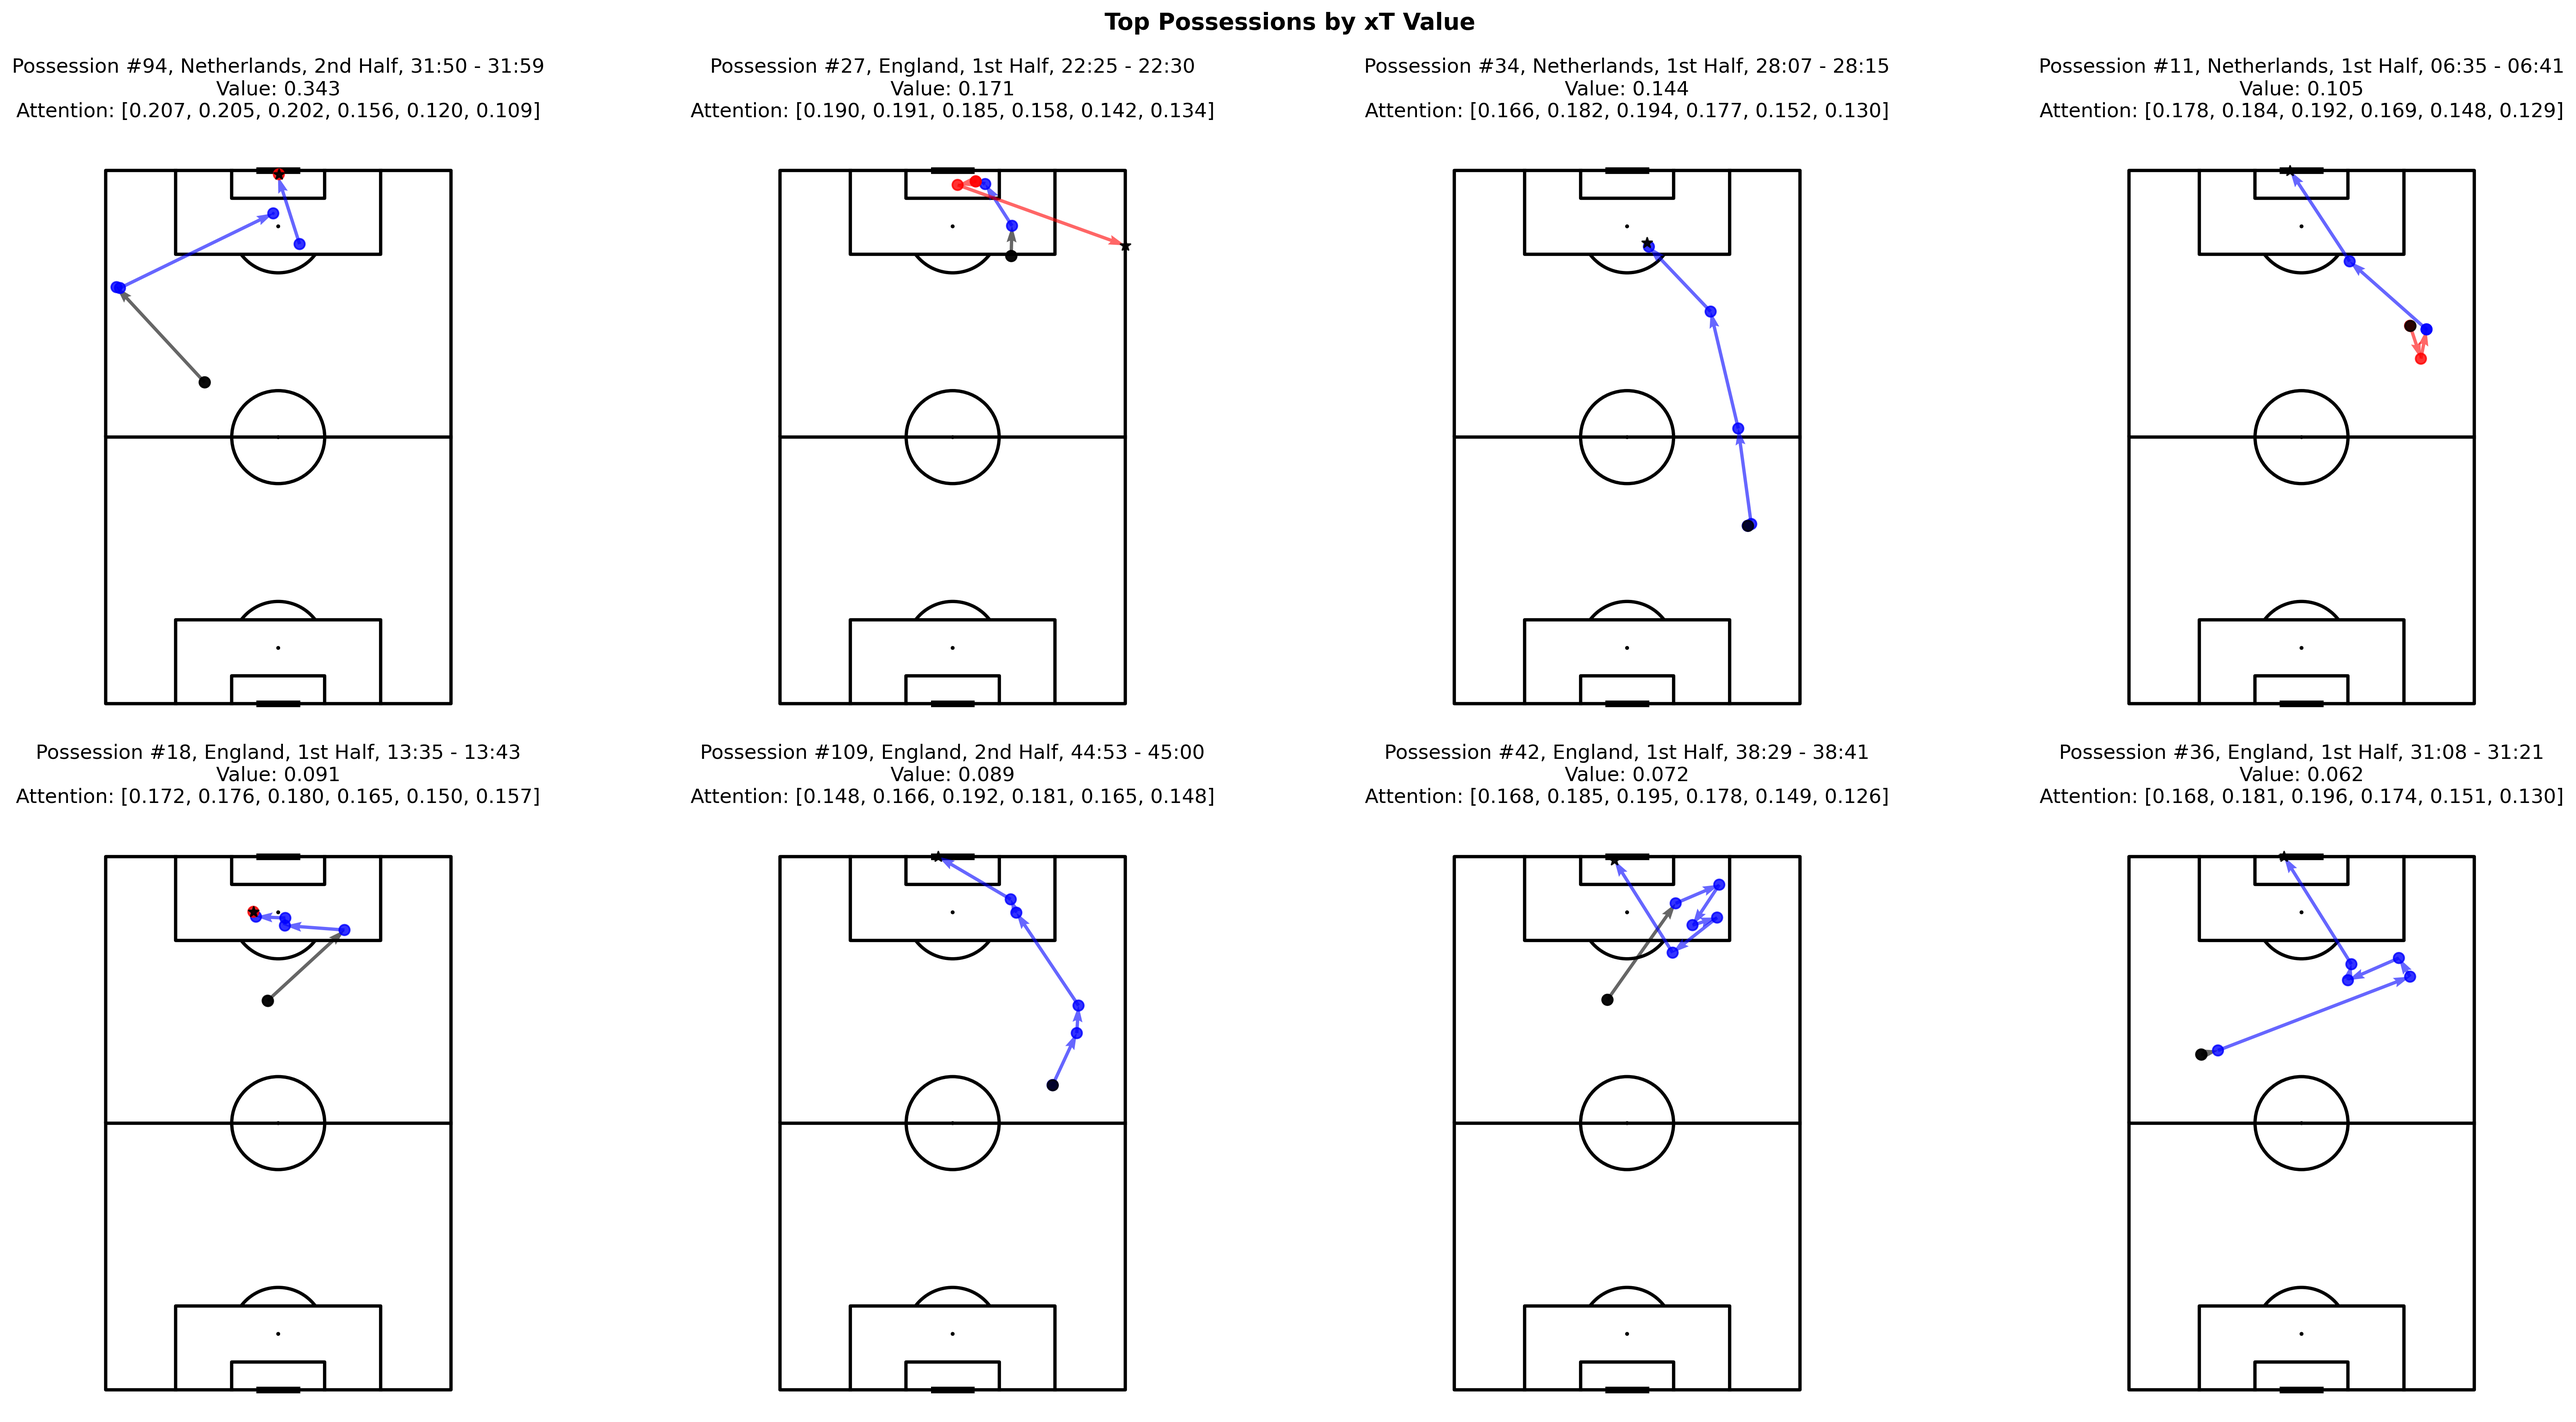
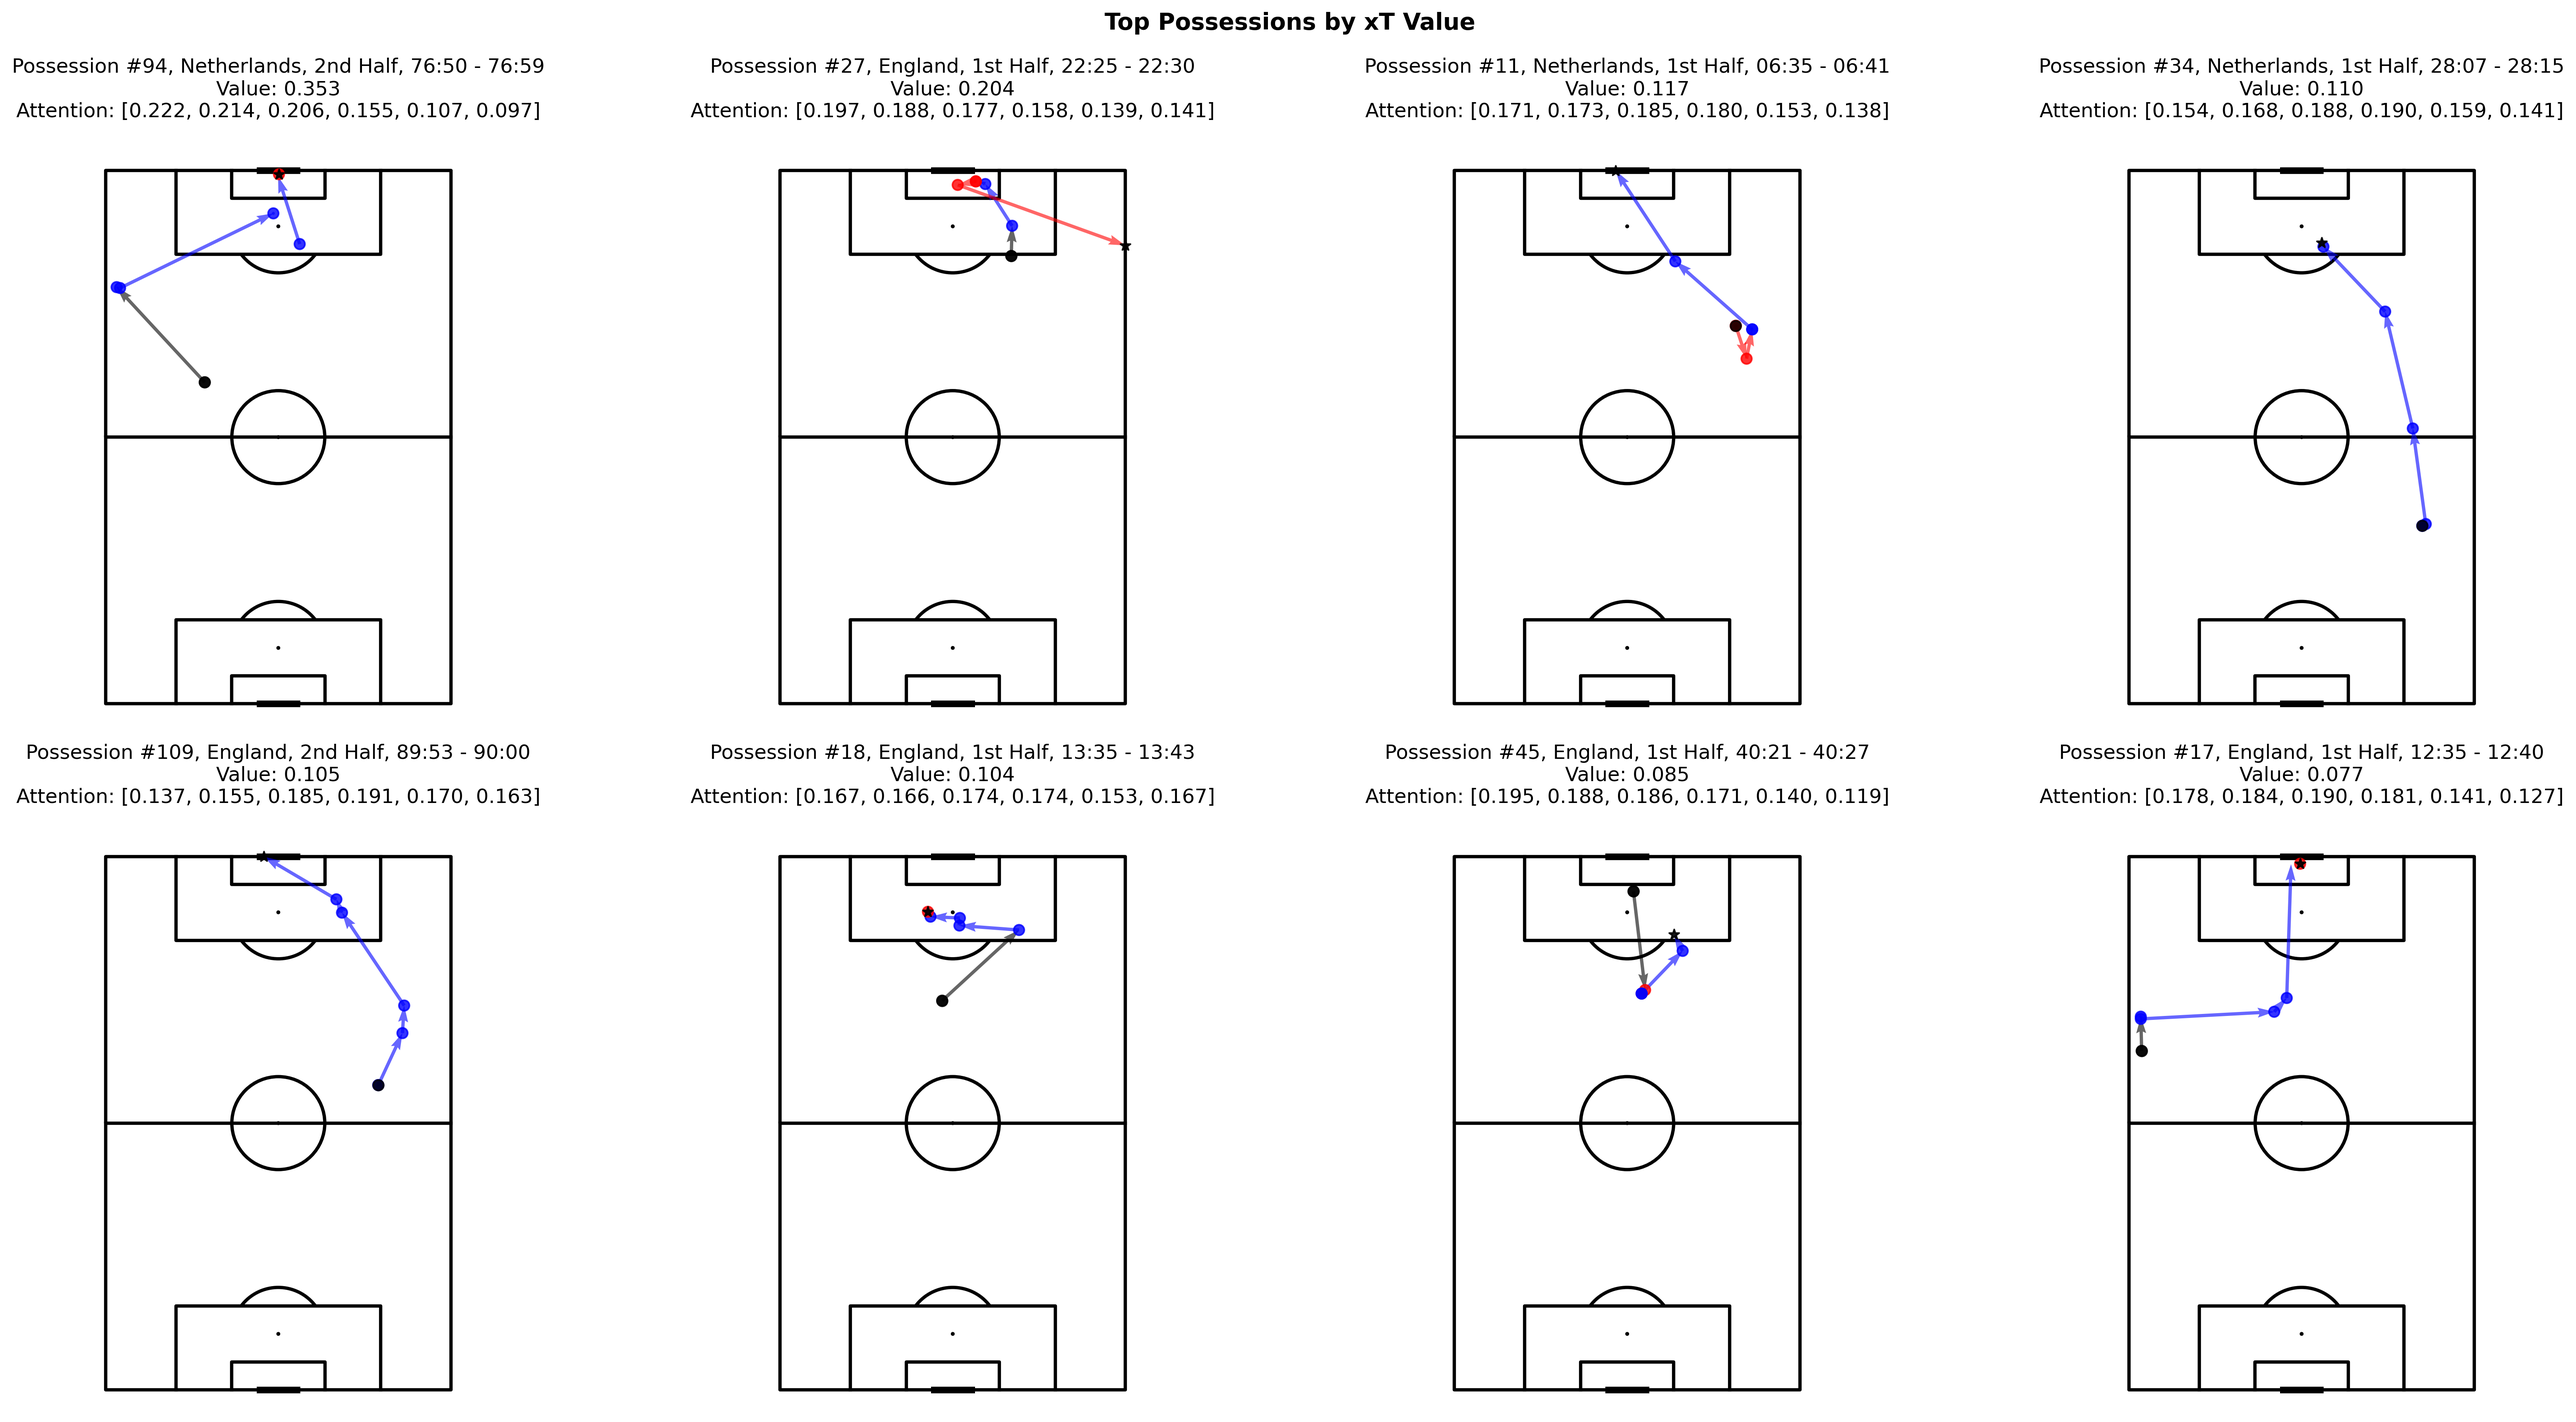
feat: enhance possession title formatting with period names and time offsets

diff --git a/src/analysis/visualization.py b/src/analysis/visualization.py
@@ -92,33 +92,32 @@ def plot_possession_actions(possession_actions: pd.DataFrame, title: Optional[st
 
 
 def _default_title(possession_actions: DataFrame) -> str:
-    possession_length = len(possession_actions)
-    possession_team_name = possession_actions.iloc[0]['possession_team_name']
     first_action = possession_actions.iloc[0]
     last_action = possession_actions.iloc[-1]
+    possession_length = len(possession_actions)
     period_id = first_action['period_id']
-    time_start_seconds = int(first_action['time_seconds'])
-    time_end_seconds = int(last_action['time_seconds'])
-    time_start_formatted = f"{time_start_seconds // 60:02d}:{time_start_seconds % 60:02d}"
-    time_end_formatted = f"{time_end_seconds // 60:02d}:{time_end_seconds % 60:02d}"
-    title = f"Possession #{first_action['possession']} - Team: {possession_team_name} - Actions: {possession_length} \n Half: {period_id} - Time: {time_start_formatted} - {time_end_formatted}"
-    return title
+
+    period_offsets = {1: 0, 2: 45, 3: 90, 4: 105, 5: 120}
+    offset = period_offsets.get(period_id, 0) * 60
+    time_start_seconds = int(first_action['time_seconds']) + offset
+    time_end_seconds = int(last_action['time_seconds']) + offset
+    formatted = f"{time_start_seconds // 60:02d}:{time_start_seconds % 60:02d}"
+    end_formatted = f"{time_end_seconds // 60:02d}:{time_end_seconds % 60:02d}"
+
+    period_names = {
+        1: "1st Half",
+        2: "2nd Half",
+        3: "Extra Time 1st Half",
+        4: "Extra Time 2nd Half",
+        5: "Penalty Shootout"
+    }
+    period_name = period_names.get(period_id, "Unknown")
+
+    return f"Possession #{first_action['possession']} ({possession_length}↔), {first_action['possession_team_name']}, {period_name}, {formatted} - {end_formatted}"
 
 
 def _title_with_value(possession_actions: DataFrame, predicted_value: float, attention_weights: np.ndarray = None) -> str:
-    first_action = possession_actions.iloc[0]
-    last_action = possession_actions.iloc[-1]
-
-    possession_number = first_action['possession']
-    team_name = first_action['possession_team_name']
-    period_id = first_action['period_id']
-    time_start_seconds = int(first_action['time_seconds'])
-    time_end_seconds = int(last_action['time_seconds'])
-    time_start_formatted = f"{time_start_seconds // 60:02d}:{time_start_seconds % 60:02d}"
-    time_end_formatted = f"{time_end_seconds // 60:02d}:{time_end_seconds % 60:02d}"
-
-    period_name = "1st Half" if period_id == 1 else "2nd Half"
-    title = f"Possession #{possession_number}, {team_name}, {period_name}, {time_start_formatted} - {time_end_formatted}\nValue: {predicted_value:.3f}"
+    title = f"{_default_title(possession_actions)}\nValue: {predicted_value:.3f}"
 
     if attention_weights is not None:
         weights_str = ', '.join([f"{w:.3f}" for w in attention_weights])
